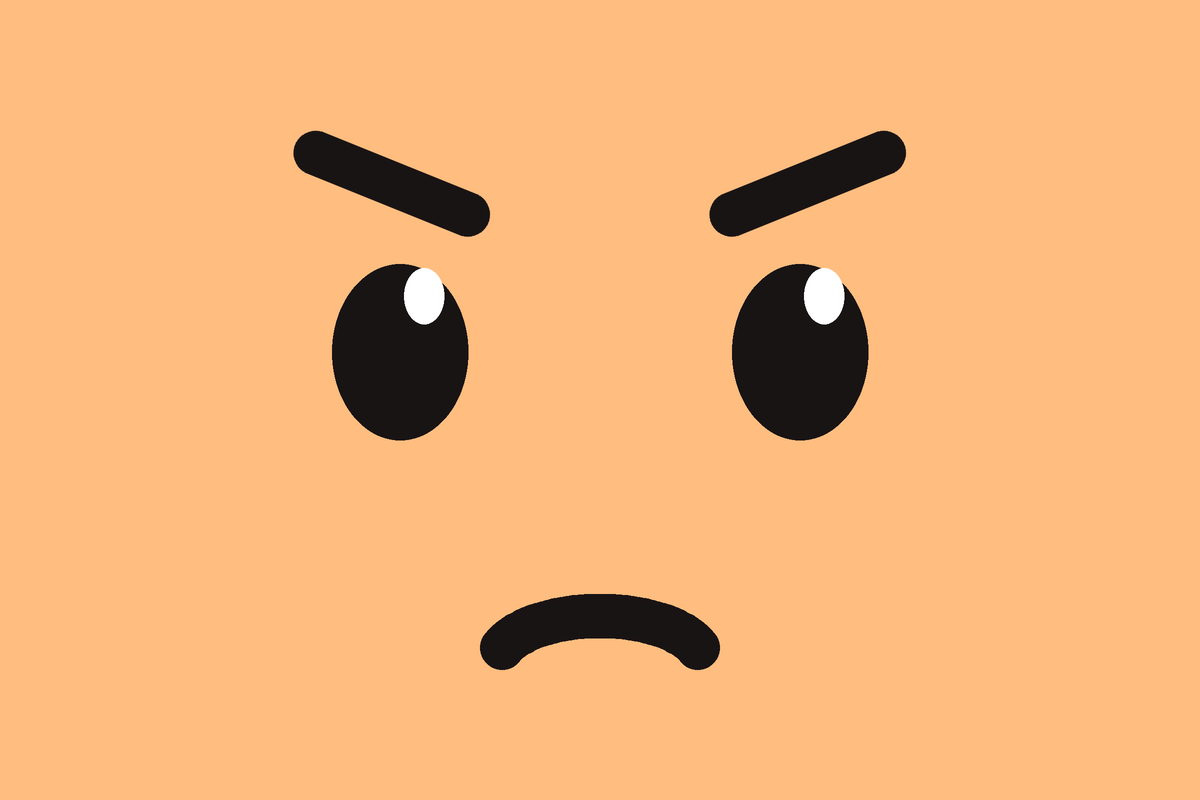
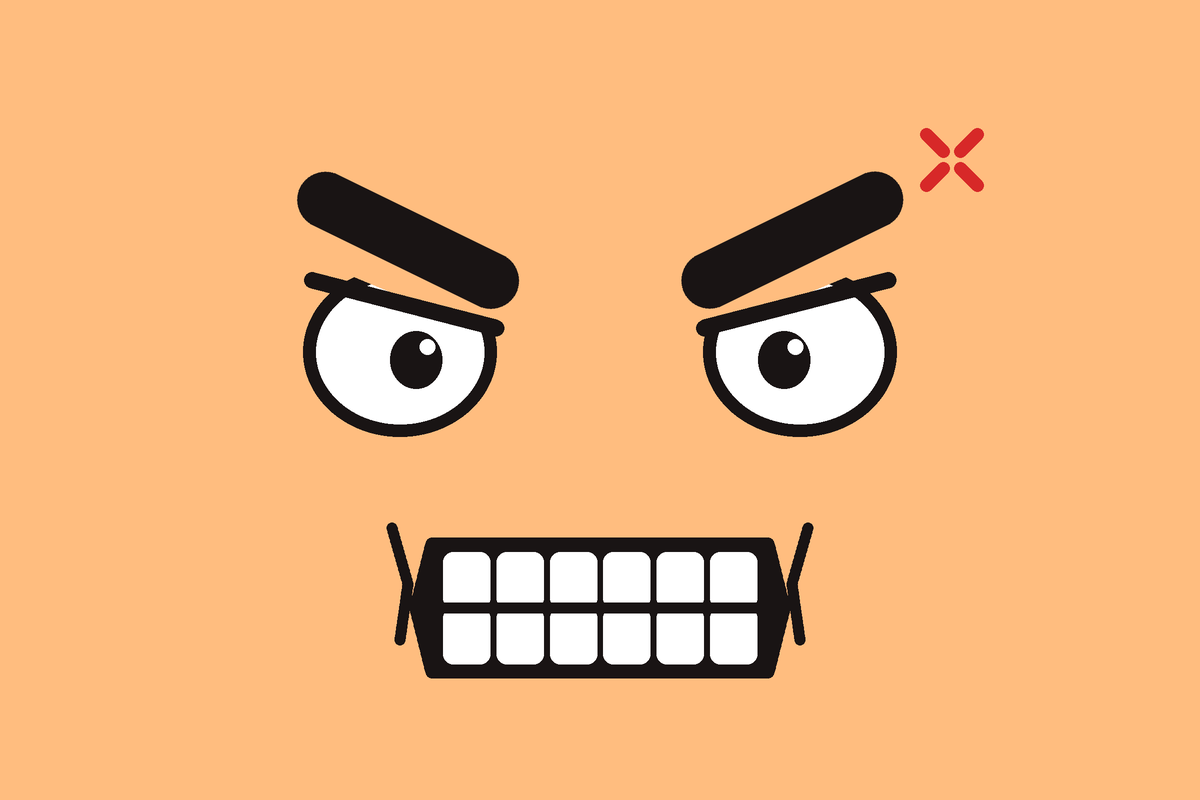
Make the hero's expressions more extreme (frightened face after the reference)
Claude-Session: https://claude.ai/code/session_01JCPs472v4v7qqBXTtZm5bX

Changed region(s): [[0.3083, 0.6562, 0.6783, 0.875], [0.555, 0.1562, 0.8325, 0.5625], [0.2467, 0.1562, 0.4317, 0.5625]]

diff --git a/born-grey/faces.py b/born-grey/faces.py
@@ -102,42 +102,183 @@ class Face:
         return img
 
 
+# --- extreme-expression pieces (the frightened reference: white eyes, tiny pupils, big toothy mouths)
+OUTLINE = 3.2
+PURPLE = (200, 120, 205)
+SWEAT = (140, 215, 255)
+VEIN = (215, 40, 40)
+
+
+def sclera(f, cx, cy, w, h, px=0, py=0, pupil=9, glint=True):
+    f.oval(cx, cy, w + OUTLINE * 2, h + OUTLINE * 2)
+    f.oval(cx, cy, w, h, WHITE)
+    f.oval(cx + px, cy + py, pupil, pupil * 1.1)
+    if glint and pupil > 7:
+        f.oval(cx + px + pupil * 0.22, cy + py - pupil * 0.25, pupil * 0.3, pupil * 0.3, WHITE)
+
+
+def outlined_poly(f, pts, fill=DARK, width=OUTLINE):
+    f.poly(pts, fill)
+    f.stroke(pts + [pts[0]], width)
+
+
+def teeth_row(f, x0, x1, y0, y1, n, clip=None):
+    """n white blocks with dark gaps between x0..x1."""
+    w = (x1 - x0) / n
+    for k in range(n):
+        f.d.rounded_rectangle([(x0 + k * w + 0.8) * K, y0 * K, (x0 + (k + 1) * w - 0.8) * K, y1 * K], radius=2.5 * K, fill=WHITE)
+
+
+def big_mouth(f, pts, top_teeth=None, bottom_teeth=None, tongue=None):
+    """Dark mouth polygon; teeth rows given as (x0, x1, y0, y1, n); tongue as (cx, cy, w, h)."""
+    f.poly(pts)
+    if tongue:
+        f.oval(*tongue, PURPLE)
+    if top_teeth:
+        teeth_row(f, *top_teeth)
+    if bottom_teeth:
+        teeth_row(f, *bottom_teeth)
+    # cover anything that spilled outside the mouth with skin, then outline
+    mask = Image.new("L", f.img.size, 0)
+    ImageDraw.Draw(mask).polygon([(x * K, y * K) for x, y in pts], fill=255)
+    skin = Image.new("RGB", f.img.size, SKIN)
+    inside = f.img.copy()
+    f.img.paste(skin, (0, 0), Image.eval(mask, lambda v: 255 - v))
+    # paste back everything that was drawn before the mouth (eyes, brows) outside the mouth area
+    return inside, mask
+
+
+class FaceX(Face):
+    """Draw the mouth FIRST (big_mouth masks the canvas), then eyes, brows and extras."""
+    def mouth(self, pts, **kw):
+        big_mouth(self, pts, **kw)
+        self.stroke(pts + [pts[0]], OUTLINE)
+
+    def crease(self, pts, width=2.6):
+        self.stroke(pts, width)
+
+    def sweat(self, x, y, s=1.0):
+        self.poly([(x, y - 9 * s), (x - 5 * s, y + 2 * s), (x + 5 * s, y + 2 * s)], SWEAT)
+        self.oval(x, y + 3 * s, 10 * s, 10 * s, SWEAT)
+
+    def vein(self, x, y):
+        for a in (45, 135, 225, 315):
+            r = math.radians(a)
+            self.stroke([(x + 3 * math.cos(r), y + 3 * math.sin(r)), (x + 9 * math.cos(r), y + 9 * math.sin(r))], 3.2, VEIN)
+
+    def tear_stream(self, x, y0, y1):
+        self.stroke([(x, y0), (x - 2, (y0 + y1) / 2), (x + 1, y1)], 6, TEAR)
+
+
 def build():
     os.makedirs(OUT, exist_ok=True)
     out = {}
     calm = Image.open(os.path.join(HERE, "assets", "face_calm_src.png")).convert("RGB").resize((1200, 800), Image.LANCZOS)
     calm.save(os.path.join(OUT, "calm.png")); out["calm"] = calm
 
-    f = Face(); f.brows(-3); f.eyes(); f.open_mouth(26, 40); out["happy"] = f.done("happy")
-    for i, h in enumerate((9, 16, 24), 1):          # lip sync steps
-        f = Face(); f.brows(); f.eyes(); f.open_mouth(h, 30 + i * 3, tongue=h > 16, teeth=h > 12); out[f"talk_{i}"] = f.done(f"talk_{i}")
-    f = Face(); f.brows(-12, 0); f.eyes(38, 56, -2); f.oval(150, 152, 26, 32); out["surprised"] = f.done("surprised")
-    f = Face(); f.brows(-6, 16); f.eyes(36, 54, -1, look=-2)
-    f.d.rounded_rectangle([118 * K, 140 * K, 182 * K, 162 * K], radius=6 * K, fill=DARK)
-    f.d.rectangle([123 * K, 145 * K, 177 * K, 157 * K], fill=WHITE)
-    for x in range(132, 176, 10):
-        f.d.line([(x * K, 145 * K), (x * K, 157 * K)], fill=DARK, width=int(1.6 * K))
-    out["scared"] = f.done("scared")
-    f = Face(); f.brows(8, -22); f.eyes(34, 44, 4); f.frown(1.0); out["angry"] = f.done("angry")
-    f = Face(); f.brows(-2, 18); f.eyes(34, 48, 2)
-    f.poly([(212, 104), (206, 122), (209, 128), (215, 128), (218, 122)], TEAR); f.oval(212, 124, 12, 12, TEAR)
-    f.frown(0.8, -2); out["sad"] = f.done("sad")
-    f = Face(); f.brows(6, -14); f.eyes(34, 46, 2)
-    f.arc(156, 140, 26, 10, 20, 160, 11); f.stroke([(182, 140), (186, 132)], 9); out["determined"] = f.done("determined")
-    f = Face(); f.brows(-6)
+    # lip-sync steps (calm eyes and brows)
+    for i, h in enumerate((9, 18, 28), 1):
+        f = Face(); f.brows(); f.eyes(); f.open_mouth(h, 30 + i * 4, tongue=h > 16, teeth=h > 12); out[f"talk_{i}"] = f.done(f"talk_{i}")
+
+    # HAPPY: huge grin, cheeks pushed up
+    f = FaceX()
+    f.mouth([(104, 132), (196, 132), (188, 156), (170, 174), (150, 180), (130, 174), (112, 156)],
+            top_teeth=(112, 188, 132, 145, 6), tongue=(150, 172, 46, 18))
+    f.brows(-8, 4); f.eyes(36, 50)
+    f.crease([(96, 128), (101, 138)]); f.crease([(204, 128), (199, 138)])
+    out["happy"] = f.done("happy")
+
+    # LAUGH: ^ ^ eyes, mouth wide open, tears of joy
+    f = FaceX()
+    f.mouth([(100, 126), (200, 126), (194, 154), (176, 180), (150, 188), (124, 180), (106, 154)],
+            top_teeth=(110, 190, 126, 140, 6), tongue=(150, 180, 52, 22))
+    f.brows(-10, 6)
     for cx in (100, 200):
-        f.arc(cx, 92, 18, 16, 200, 340, 11)          # ^ ^ happy closed eyes
-    f.open_mouth(30, 44); out["laugh"] = f.done("laugh")
+        f.arc(cx, 92, 20, 18, 200, 340, 12)
+    f.tear_stream(76, 96, 118); f.tear_stream(224, 96, 118)
+    out["laugh"] = f.done("laugh")
+
+    # SURPRISED / SHOCKED: tiny pupils, brows way up, tall O
+    f = FaceX()
+    f.mouth([(130, 132), (150, 126), (170, 132), (176, 154), (170, 178), (150, 186), (130, 178), (124, 154)],
+            tongue=(150, 178, 26, 12), top_teeth=(134, 166, 129, 136, 3))
+    f.brows(-18, 0, 56)
+    sclera(f, 100, 82, 44, 54, 0, 0, 10); sclera(f, 200, 82, 44, 54, 0, 0, 10)
+    for x0, s in ((70, -1), (230, 1)):
+        f.crease([(x0, 56), (x0 + 8 * s, 50)]); f.crease([(x0 - 2 * s, 70), (x0 + 6 * s, 66)])
+    out["surprised"] = f.done("surprised")
+
+    # FRIGHTENED (the reference): white eyes with pin pupils, screaming toothy mouth, purple tongue, stress lines, sweat
+    f = FaceX()
+    mouth = [(102, 130), (118, 122), (134, 126), (150, 121), (166, 126), (182, 121), (198, 130),
+             (192, 152), (182, 172), (166, 188), (150, 191), (134, 188), (118, 172), (108, 152)]
+    f.mouth(mouth, top_teeth=(110, 190, 124, 142, 5), bottom_teeth=(128, 172, 176, 186, 4), tongue=(150, 182, 46, 16))
+    f.crease([(96, 124), (100, 142), (106, 158)]); f.crease([(204, 124), (200, 142), (194, 158)])
+    f.brow(94, 30, -22, 58, 12); f.brow(206, 30, 22, 58, 12)
+    sclera(f, 100, 84, 46, 50, 3, 2, 7, glint=False); sclera(f, 200, 84, 46, 50, -3, 2, 7, glint=False)
+    for cx, s in ((100, -1), (200, 1)):
+        f.crease([(cx + 28 * s, 76), (cx + 34 * s, 72)], 2.4)
+        f.crease([(cx + 29 * s, 88), (cx + 36 * s, 88)], 2.4)
+        f.crease([(cx - 14, 114), (cx, 118), (cx + 14, 114)], 2.4)   # bags under the eyes
+    f.crease([(140, 50), (146, 56)], 2.2); f.crease([(160, 50), (154, 56)], 2.2)
+    f.sweat(66, 60, 1.2); f.sweat(236, 70, 0.9)
+    out["scared"] = f.done("scared")
+
+    # ANGRY: steep V brows, narrowed eyes, gritted teeth, vein
+    f = FaceX()
+    m = [(108, 136), (192, 136), (196, 152), (192, 168), (108, 168), (104, 152)]
+    f.mouth(m, top_teeth=(110, 190, 138, 152, 6), bottom_teeth=(110, 190, 152, 166, 6))
+    f.stroke([(108, 152), (192, 152)], 2.6)
+    sclera(f, 100, 88, 42, 36, 4, 2, 13); sclera(f, 200, 88, 42, 36, -4, 2, 13)
+    f.poly([(76, 64), (124, 84), (124, 60)], SKIN); f.poly([(224, 64), (176, 84), (176, 60)], SKIN)  # brows press the eyelids
+    f.stroke([(78, 70), (124, 82)], 4); f.stroke([(222, 70), (176, 82)], 4)
+    f.brow(102, 60, 26, 60, 14); f.brow(198, 60, -26, 60, 14)
+    f.crease([(98, 132), (102, 146), (100, 160)]); f.crease([(202, 132), (198, 146), (200, 160)])
+    f.vein(238, 40)
+    out["angry"] = f.done("angry")
+
+    # SAD / CRYING: worried brows, big glossy eyes, wobbly open frown, tear streams
+    f = FaceX()
+    f.mouth([(116, 176), (124, 156), (138, 146), (162, 146), (176, 156), (184, 176), (168, 170), (150, 172), (132, 170)],
+            tongue=(150, 172, 30, 10))
+    f.brow(98, 36, -24, 54, 12); f.brow(202, 36, 24, 54, 12)
+    for cx in (100, 200):
+        f.oval(cx, 86, 40, 52)
+        f.oval(cx + 7, 72, 14, 18, WHITE); f.oval(cx - 8, 98, 7, 8, WHITE)
+    f.tear_stream(92, 112, 150); f.tear_stream(208, 112, 154)
+    out["sad"] = f.done("sad")
+
+    # DETERMINED: low hard brows, focused eyes, confident teeth grin to one side
+    f = FaceX()
+    f.mouth([(124, 140), (186, 134), (182, 150), (164, 160), (140, 158)], top_teeth=(128, 184, 136, 146, 4))
+    f.brow(100, 52, 18, 58, 13); f.brow(200, 52, -18, 58, 13)
+    f.eyes(36, 46, 4)
+    f.poly([(80, 62), (122, 74), (122, 58)], SKIN); f.poly([(220, 62), (178, 74), (178, 58)], SKIN)
+    f.crease([(190, 128), (194, 138)])
+    out["determined"] = f.done("determined")
+
+    # SMUG: half-lidded eyes, one brow up, lopsided smirk
+    f = FaceX()
+    f.brow(98, 40, 4, 52, 11); f.brow(202, 30, 14, 52, 11)
+    f.eyes(36, 50, 2, look=3)
+    f.rect(76, 54, 124, 80); f.rect(176, 54, 224, 80)
+    f.stroke([(80, 80), (120, 80)], 7); f.stroke([(180, 80), (220, 80)], 7)
+    f.arc(164, 140, 26, 10, 20, 160, 11); f.stroke([(188, 142), (194, 132)], 9)
+    out["smug"] = f.done("smug")
+
+    # NERVOUS: worried brows, shrinking pupils, wavy mouth, sweat
+    f = FaceX()
+    f.brow(98, 36, 14, 52, 11); f.brow(202, 36, -14, 52, 11)
+    sclera(f, 100, 86, 40, 48, -6, 0, 12); sclera(f, 200, 86, 40, 48, -6, 0, 12)
+    f.stroke([(118, 154), (130, 146), (142, 154), (154, 146), (166, 154), (178, 147)], 8)
+    f.sweat(234, 54, 1.3); f.sweat(70, 70, 0.8)
+    out["nervous"] = f.done("nervous")
+
+    # BLINK
     f = Face(); f.brows()
     for cx in (100, 200):
-        f.arc(cx, 80, 17, 9, 20, 160, 10)            # closed eyes, lids down
+        f.arc(cx, 80, 17, 9, 20, 160, 10)
     f.smile(); out["blink"] = f.done("blink")
-    f = Face(); f.brows(2, 2); f.eyes(34, 50, 2, look=3); f.rect(78, 52, 222, 78)  # half-lidded
-    for cx in (100, 200):
-        f.stroke([(cx - 18, 79), (cx + 18, 79)], 7)
-    f.arc(160, 142, 22, 9, 20, 160, 11); f.stroke([(180, 142), (184, 134)], 9); out["smug"] = f.done("smug")
-    f = Face(); f.brows(-4, 12); f.eyes(34, 50)
-    f.stroke([(122, 152), (134, 146), (146, 152), (158, 146), (170, 152), (180, 147)], 9); out["nervous"] = f.done("nervous")
 
     # contact sheet with labels
     names = list(out)
